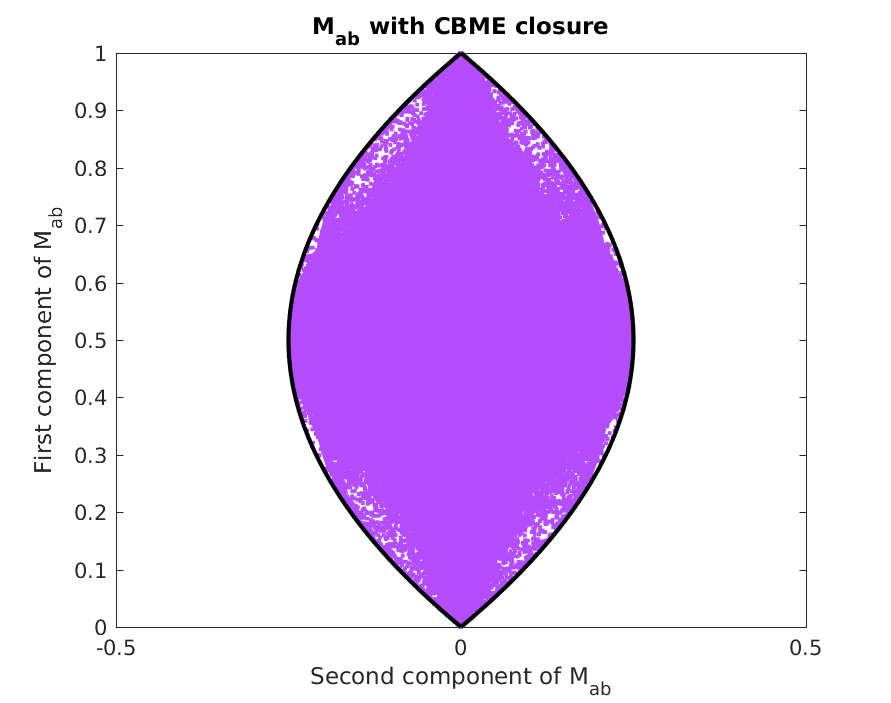
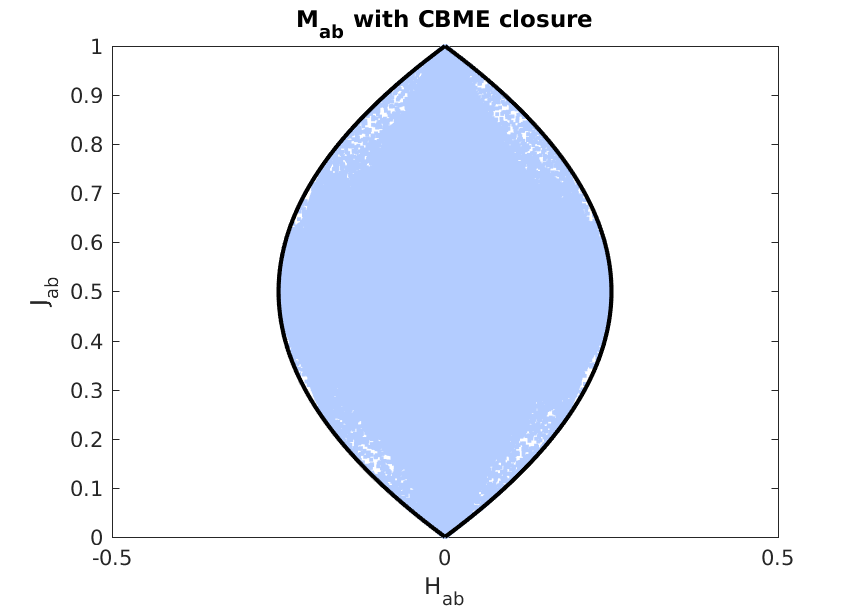
Changed plot setting.

diff --git a/Documents/M1/realizableFermionicM1/figures/MabWithDiffClosure.m b/Documents/M1/realizableFermionicM1/figures/MabWithDiffClosure.m
@@ -66,28 +66,21 @@ toc
 f_FD = 0;
 f_MB = 0;
 
-ClosureName = {'FD', 'BLKS', 'CBME', 'BLME','MI'};
+ClosureName = {'BLKS', 'CBME', 'BLME','MI'};
 
 for ii = 1:max(size(ClosureName))
     
 Closure = ClosureName{ii}; % 
 
 switch Closure
-    case 'FD'
-        K_plot = K_FD;
-        col = [0.7 0.8 1.0];
     case 'MI'
         K_plot = K_MI;
-        col = [0.1 0.2 1.0];
     case 'CBME'
         K_plot = K_CB;
-        col = [0.7 0.3 1.0];
     case 'BLME'
         K_plot = K_BL;
-        col = [1.0 0.8 1.0];
     case 'BLKS'
         K_plot = K_KS;
-        col = [0.5 0.5 1.0];
 end
 
 M1 = 0.5 .* ( J_FD(1:end-1) +   H_FD(1:end-1) ...
@@ -96,7 +89,7 @@ M2 = 0.5 .* ( H_FD(1:end-1) + K_plot(1:end-1)...
             + H_FD(2:end)   - K_plot(2:end) );
 
 fig = figure;
-plot( M2, M1, '.','Color',col, 'MarkerSize', 5.5 );hold on
+plot( M2, M1, '.','Color',[0.7 0.8 1.0], 'MarkerSize', 5.5 );hold on
 yy = linspace(0.0,1.0,1024)';
 xxP_FD = + yy.*(1.0-yy);
 xxM_FD = - yy.*(1.0-yy);
@@ -106,8 +99,9 @@ plot( xxP_FD, yy, '-k', 'linewidth', 2 )
 plot( xxM_FD, yy, '-k', 'linewidth', 2 )
 hold off
 axis([-0.5 0.5 0.0 1.0]);
-xlabel('Second component of M_{ab}');
-ylabel('First component of M_{ab}');
+xlabel('H_{ab}');
+ylabel('J_{ab}');
 title(['M_{ab} with ', Closure,' closure']);
+pause(1)
 saveas(fig,['MabWith', Closure,'.png']);
 end
